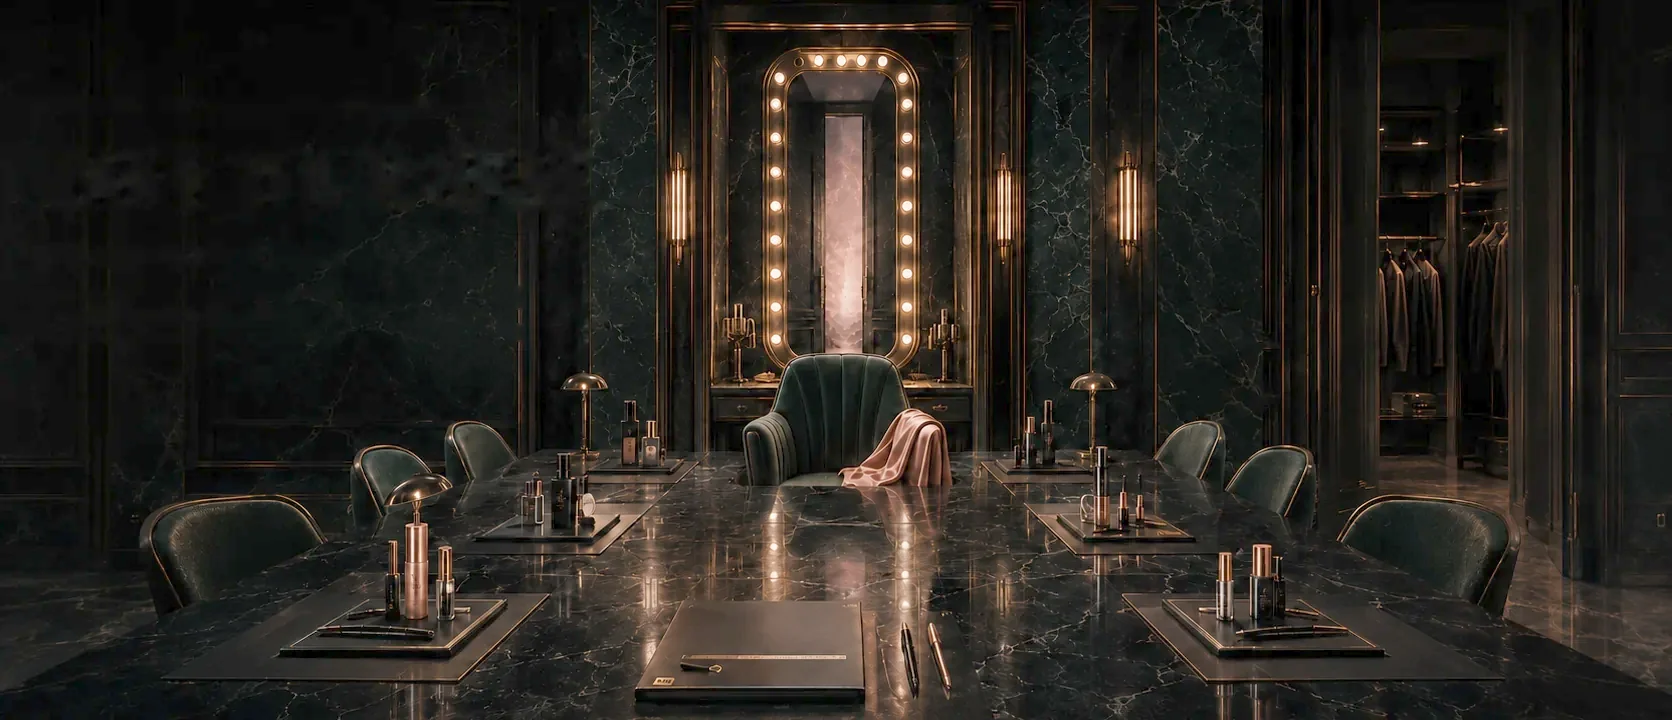
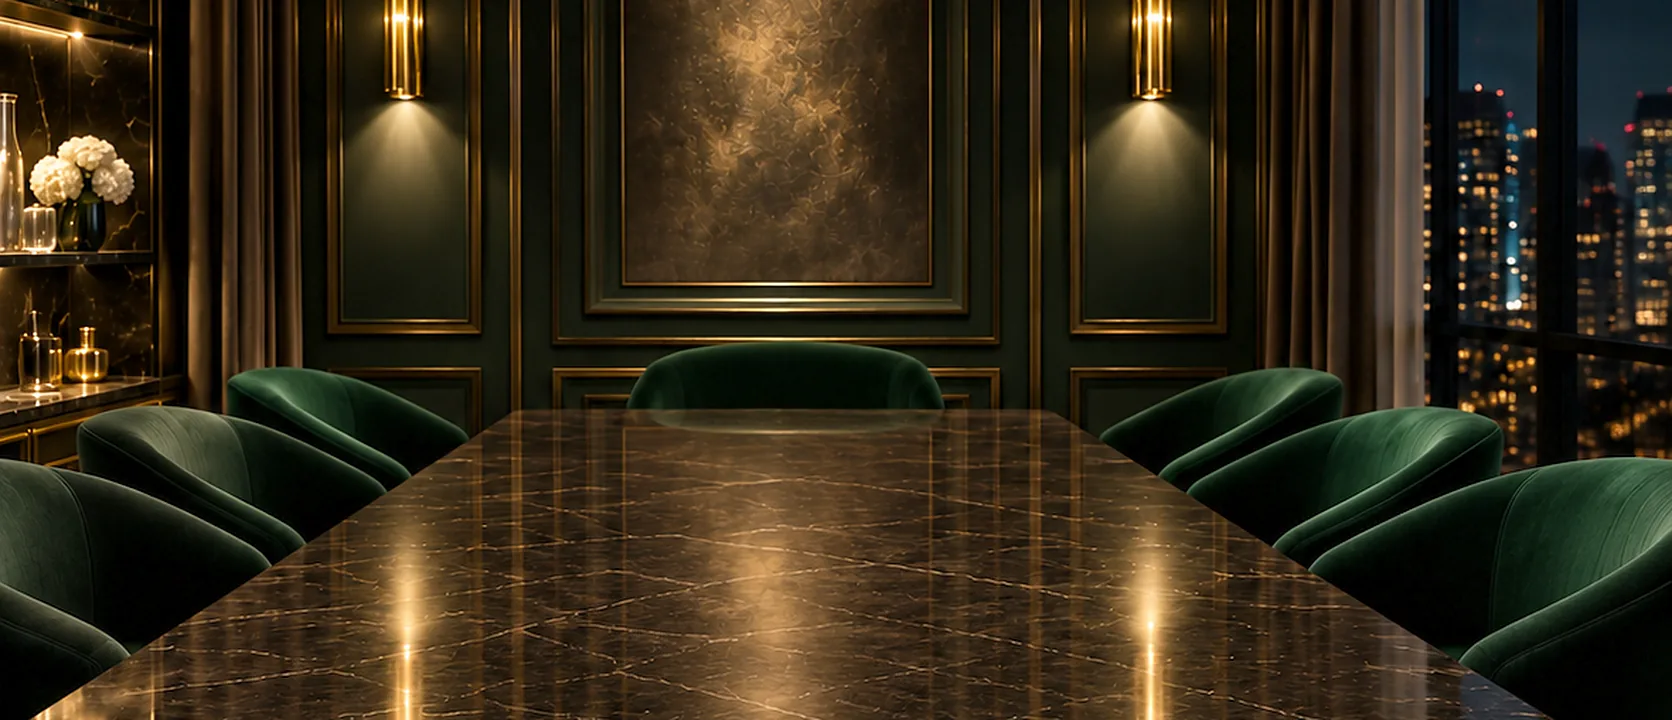
Room 04: the new boardroom, cropped for both breakpoints

diff --git a/src/app/page.tsx b/src/app/page.tsx
@@ -419,8 +419,8 @@ export default function HomePage() {
         as="h2"
         src="/editorial/rooms/collection-mirror.webp"
         mobileSrc="/editorial/rooms/collection-mirror-m.webp"
-        alt="The FOUNDER Collection boardroom: a long black marble table set with striped packs at every seat, an empty green chair with a rose silk over its arm before a bulb-lit mirror."
-        position="56% center"
+        alt="The FOUNDER Collection boardroom at night: a long polished marble table running to a panelled dark green wall between two brass sconces, green velvet chairs down both sides, white flowers on a lit shelf at the left and city lights through the window at the right."
+        position="center center"
         height="min-h-[68svh]"
         label="Room 04 · The FOUNDER Collection"
         title="Five pieces before whatever comes next."

diff --git a/WORKLOG.md b/WORKLOG.md
@@ -5,6 +5,65 @@ date · agent · what changed · what was left alone · anything unpushed.
 
 ---
 
+## 2026-10-01 · Claude (Cowork) — rebased onto 19 commits of other agents' work
+
+Shelby's push was rejected: another agent had pushed 19 commits (Our Story
+rewrite, Young Founders rebuild, concierge, homepage copy) while this
+session worked. Exactly the collision AGENTS.md rule 1 exists for.
+
+Checked the overlap before touching anything: of my four files, only
+src/app/page.tsx was also theirs. The two .webp files and WORKLOG.md were
+untouched on their side.
+
+Rebased onto origin/main. Git auto-merged the Room 04 block cleanly, and the
+result is the right one semantically, not just mechanically:
+  MINE  alt (describes the new render) + position="center center"
+  THEIRS title "Five pieces before whatever comes next."
+         lede "Cleanse, wash, moisturise, eyes, finish..."
+Verified line by line after the rebase, not assumed.
+
+Their new lede drops "In stock", which retires the contradiction flagged in
+the entry below — the Room 04 hero no longer argues with the "Ships
+October 12" badge. The two Shopify product descriptions still do.
+
+Safety ref left at safety/pre-rebase-2026-10-01 (pre-rebase HEAD 347a367).
+Delete it once the push lands: git branch -D safety/pre-rebase-2026-10-01
+
+## 2026-10-01 · Claude (Cowork) — Room 04 gets the new boardroom
+
+Shelby supplied a replacement render for Room 04 (the FOUNDER Collection
+hero) and asked for it optimised for the layout.
+
+- Source is PORTRAIT, 1181x1331. The layout wants 1672x720 (2.322:1) on
+  desktop and 540x720 (3:4) on mobile, so the two breakpoints are cropped
+  from different regions rather than scaled from one:
+    desktop  y 210-719 band, the 2.322:1 slice holding the sconces, the
+             panelled wall, both rows of chairs, the bar shelf and the
+             window. Upscaled 1.42x (LANCZOS) then unsharp-masked to put
+             back the bite the upscale costs.
+    mobile   full height, centre 998px wide = 3:4, DOWNscaled to 540x720,
+             so the phone crop is the sharp one.
+- Gamma lift again, not brightness-multiply: 1.35 desktop (mean 24.8 ->
+  39.3), 1.25 mobile (-> 33.2). The mobile crop starts brighter, same
+  reasoning as the 2026-10-01 entry below.
+- Sizes: desktop 98 KB (was 121), mobile 39 KB (was 55). Smaller than what
+  it replaced at q82/q80.
+
+ALT TEXT REWRITTEN — mandatory, not polish. The old alt described "striped
+packs at every seat, an empty green chair with a rose silk over its arm
+before a bulb-lit mirror". None of that is in the new render. An alt that
+describes a picture the page no longer shows is worse than no alt.
+
+position: "56% center" -> "center center". The new composition is
+symmetrical — the table's vanishing point is dead centre — so an off-centre
+object-position breaks it at narrow viewports. Revert this one line if the
+old framing is wanted back.
+
+STILL TRUE, STILL FLAGGED: the lede under this hero says "In stock, and
+free to your door anywhere in the US" while the five products now carry a
+"Ships October 12" badge in Shopify. Same contradiction class as the two
+product descriptions flagged below. Not touched.
+
 ## 2026-10-01 · Claude (Cowork) — Shopify stock + ship date, and a brighter Room 04
 
 SHOPIFY (live store, no repo change):
